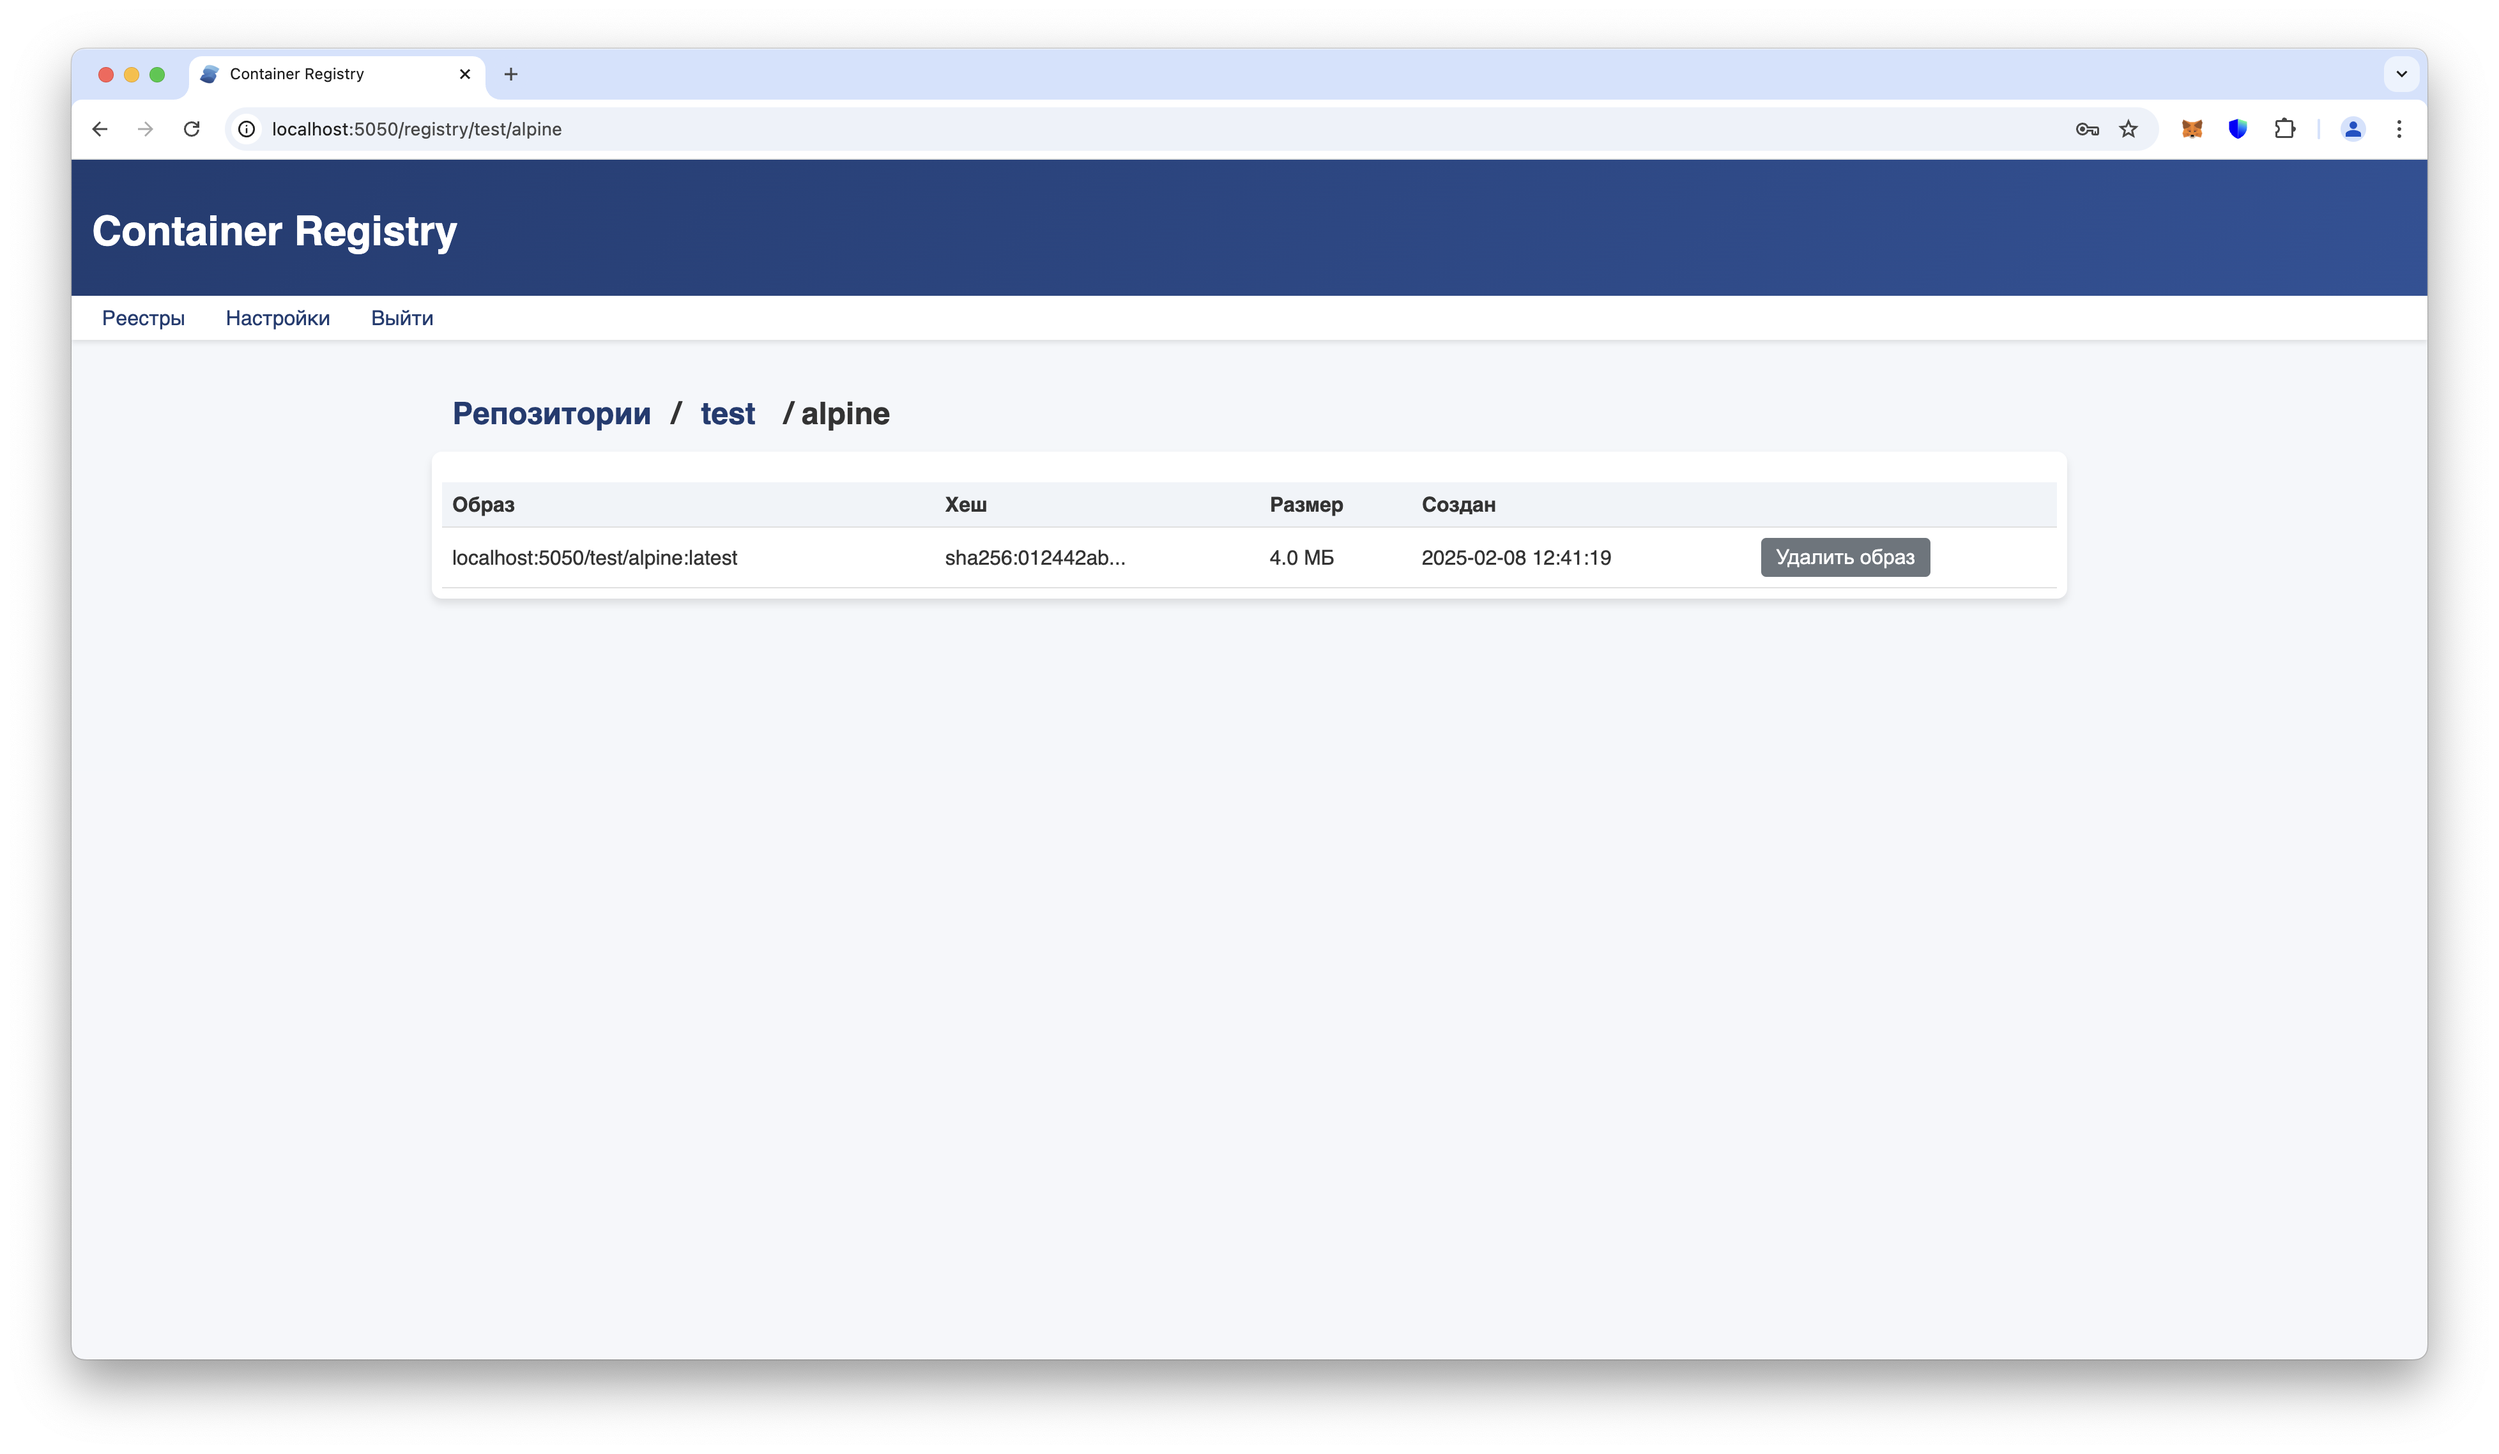
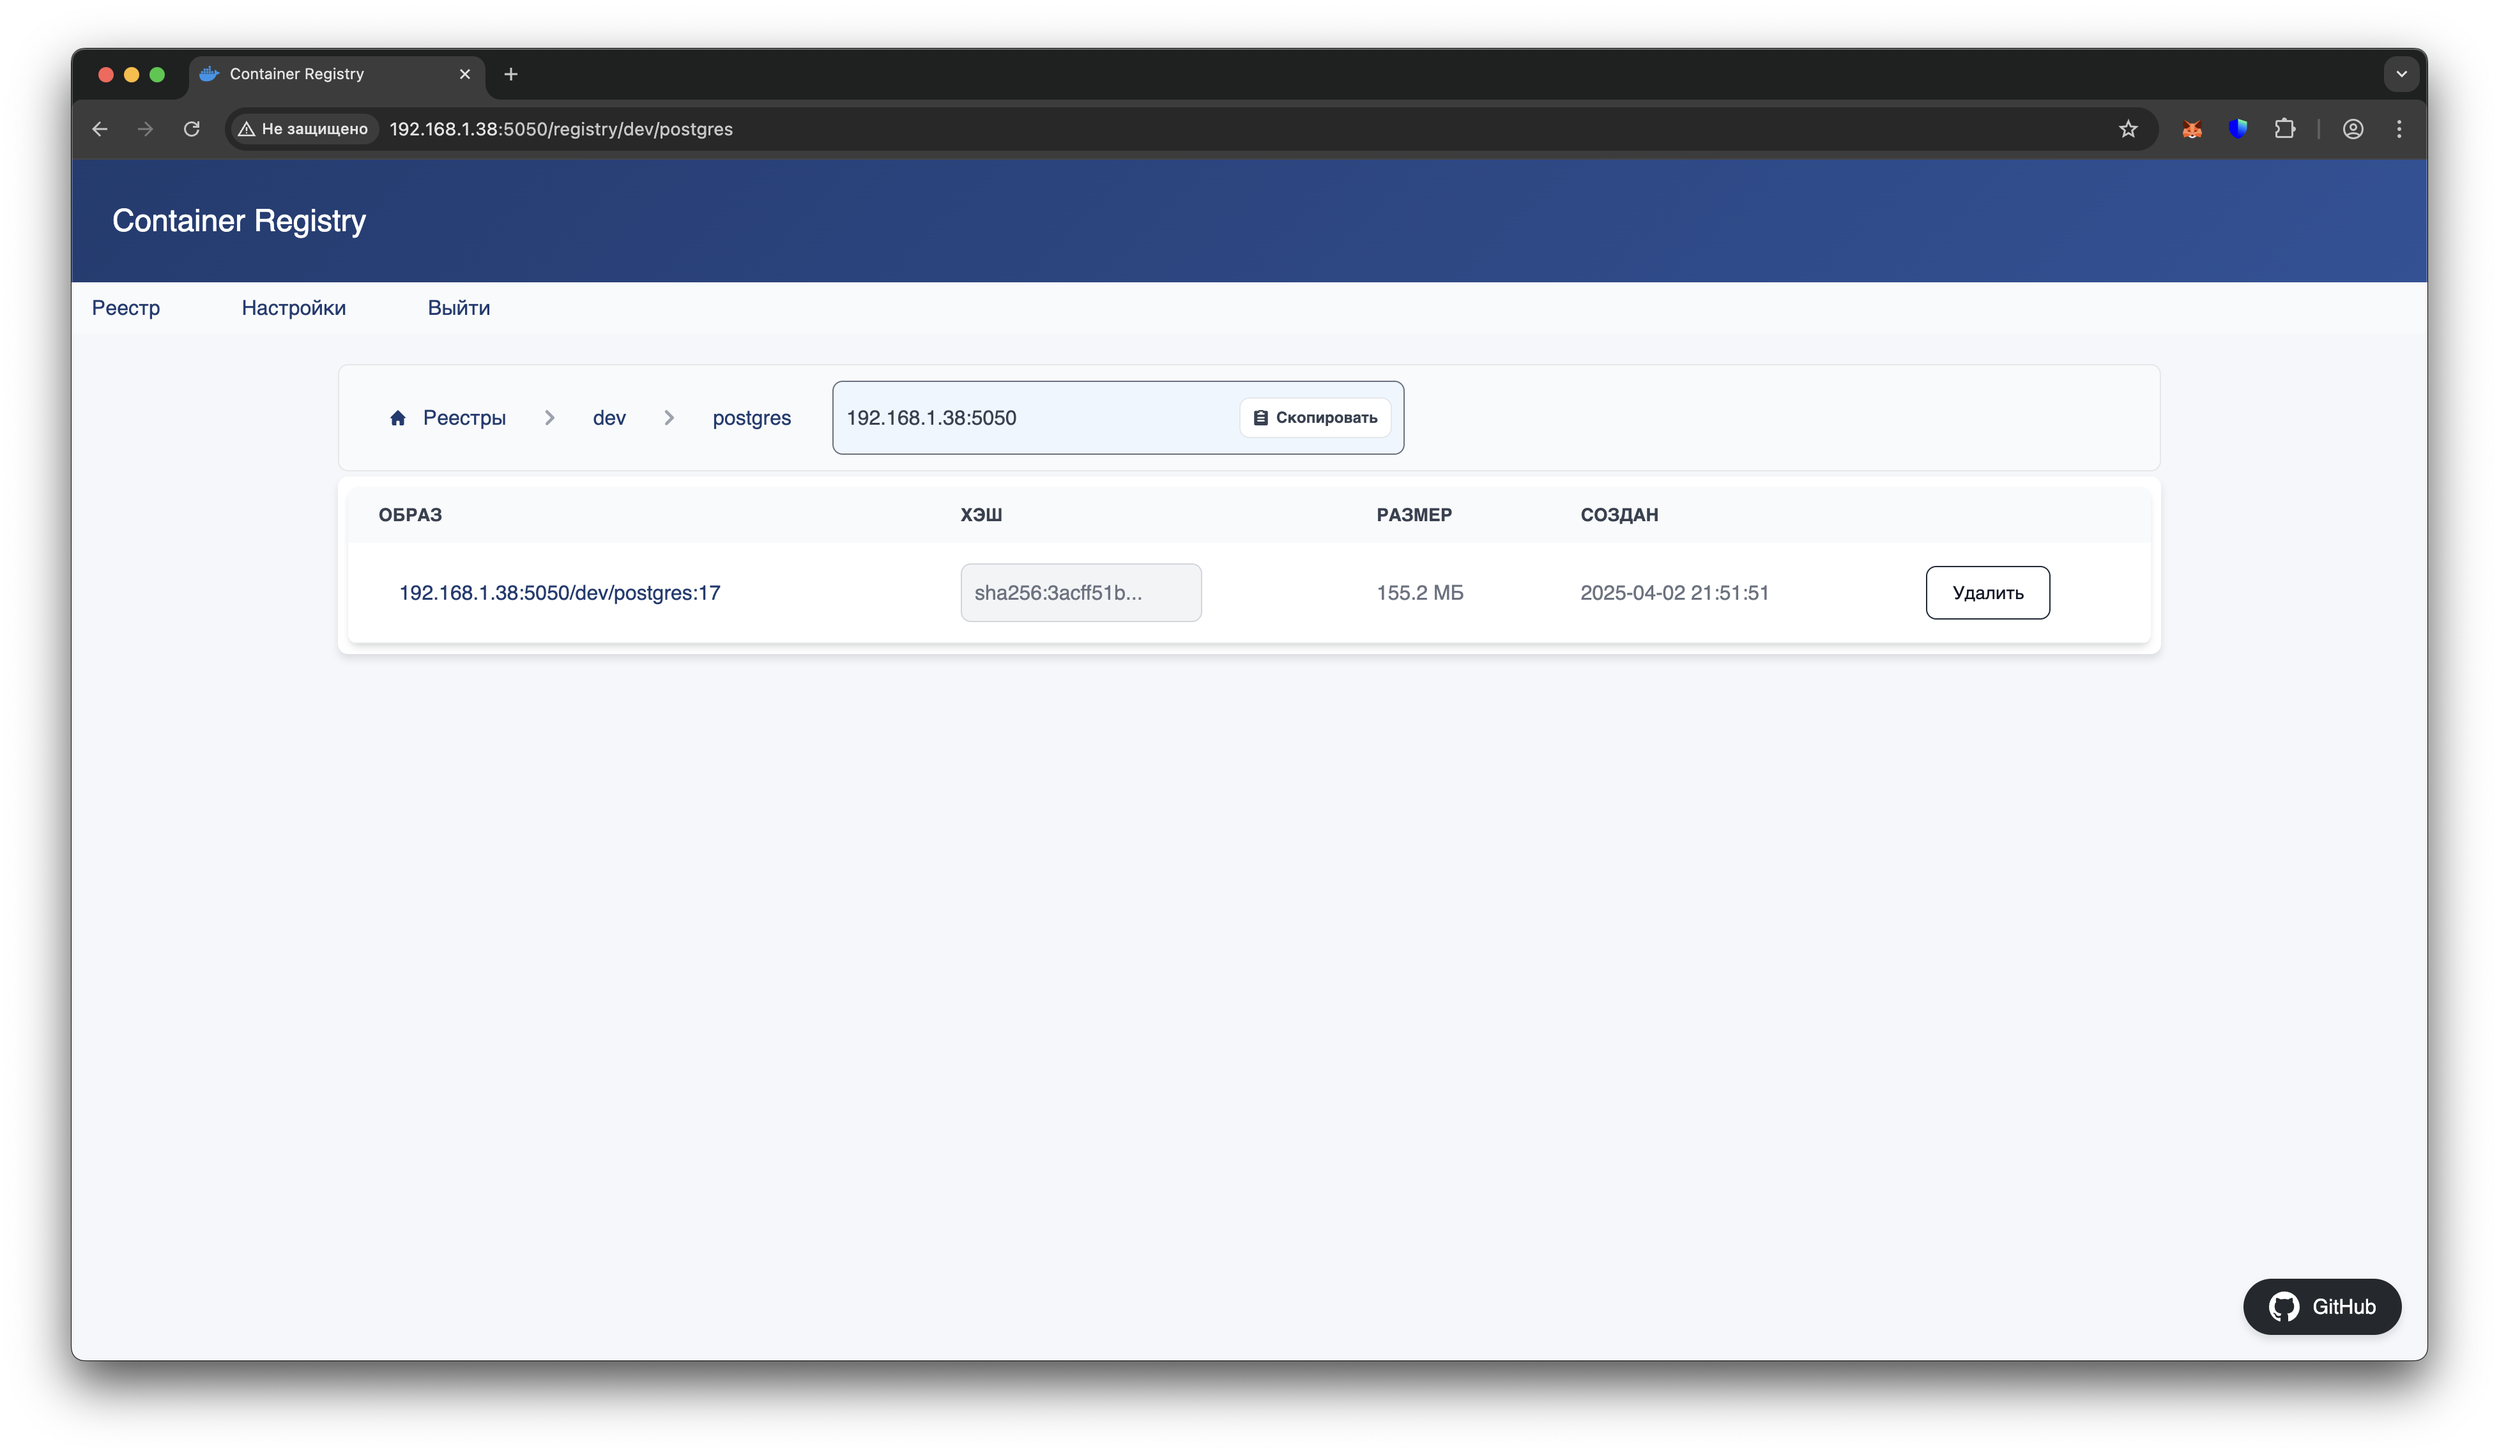
обновлена документация

diff --git a/docs/README.md b/docs/README.md
@@ -22,8 +22,10 @@ ___
 ### Docker
 
 ```bash
+docker volume create registry-data
 docker run -d --restart unless-stopped -p 5050:5050 \
--v ./registry:/registry/var \
+-v ./conf:/registry/conf.d \
+-v registry-data:/registry/var \
 --name registry rosomilanov/container-registry 
 ```
 
@@ -38,10 +40,14 @@ services:
     ports:
       - 5050:5050
     volumes:
-      - ./registry:/registry/var
+	  - ./conf:/registry/conf.d
+      - registry-data:/registry/var
+
+volumes:
+	registry-data:
 ```
 
-Сервис будет доступен по адресу http://localhost:5050/login
+Сервис будет доступен по адресу http://192.168.1.38:5050/login
 
 ![вход](./images/start.png)
 
@@ -51,7 +57,7 @@ services:
 - Пример конфигурации для локального хранилища:
 ```bash config.yaml
 server:
-  url: "http://127.0.0.1:5050"
+  url: "http://192.168.1.38:5050"
   jwt: "qwerty"
 
 storage:
@@ -61,7 +67,7 @@ storage:
 - Пример конфигурации для S3 хранилища:
 ```bash config.yaml
 server:
-  url: "http://127.0.0.1:5050"
+  url: "http://192.168.1.38:5050"
   jwt: "qwerty"
 
 storage:
@@ -72,7 +78,7 @@ storage:
     secret_key: "your_secret_key"
     ssl: true
 ```
-- папку с файлом `config.yaml` необходимо смонтировать в контейнер по пути `/registry/var`
+- папку с файлом `config.yaml` необходимо смонтировать в контейнер по пути `/registry/conf.d`
 ## Использование
 
 - создать реестр через веб-интерфейс:
@@ -82,7 +88,7 @@ storage:
 - авторизоваться в container registry:
 
 ```bash
-docker login -u test -p test localhost:5050
+docker login -u test -p test 192.168.1.38:5050
 ```
 
 - собрать образ по правилу <адрес docker registry>/<название реестра>:<тег> - localhost:5050/dev/alpine
@@ -90,11 +96,13 @@ docker login -u test -p test localhost:5050
 - загрузить образ:
 
 ```bash
-docker push localhost:5050/test/alpine
+docker push 192.168.1.38:5050/dev/postgres:17
 ```
 
 - скачать образ:
 
 ```bash
-docker pull localhost:5050/test/alpine
+docker pull 192.168.1.38:5050/dev/postgres:17
 ```
+
+![образ](./images/images.png)
